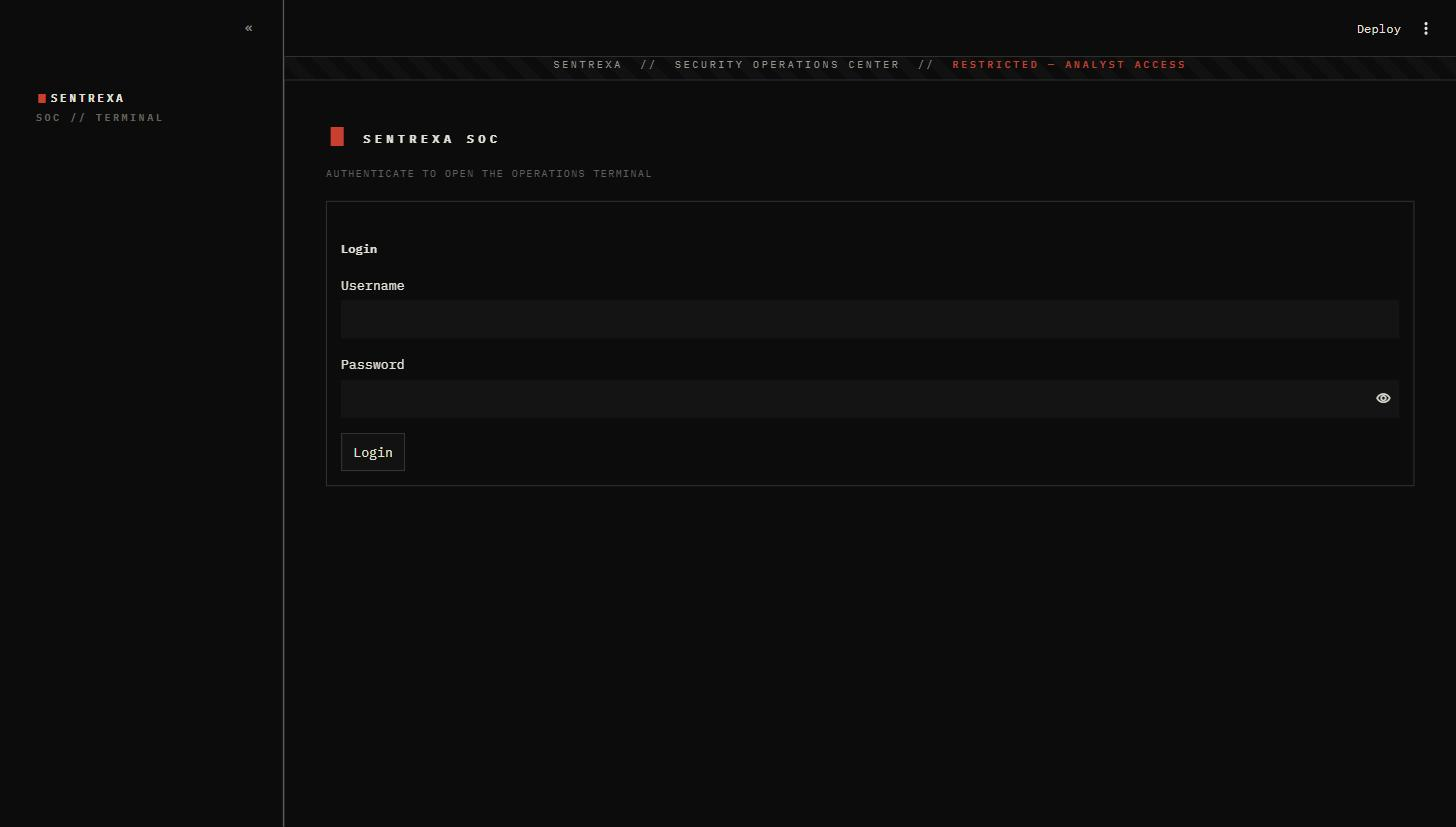
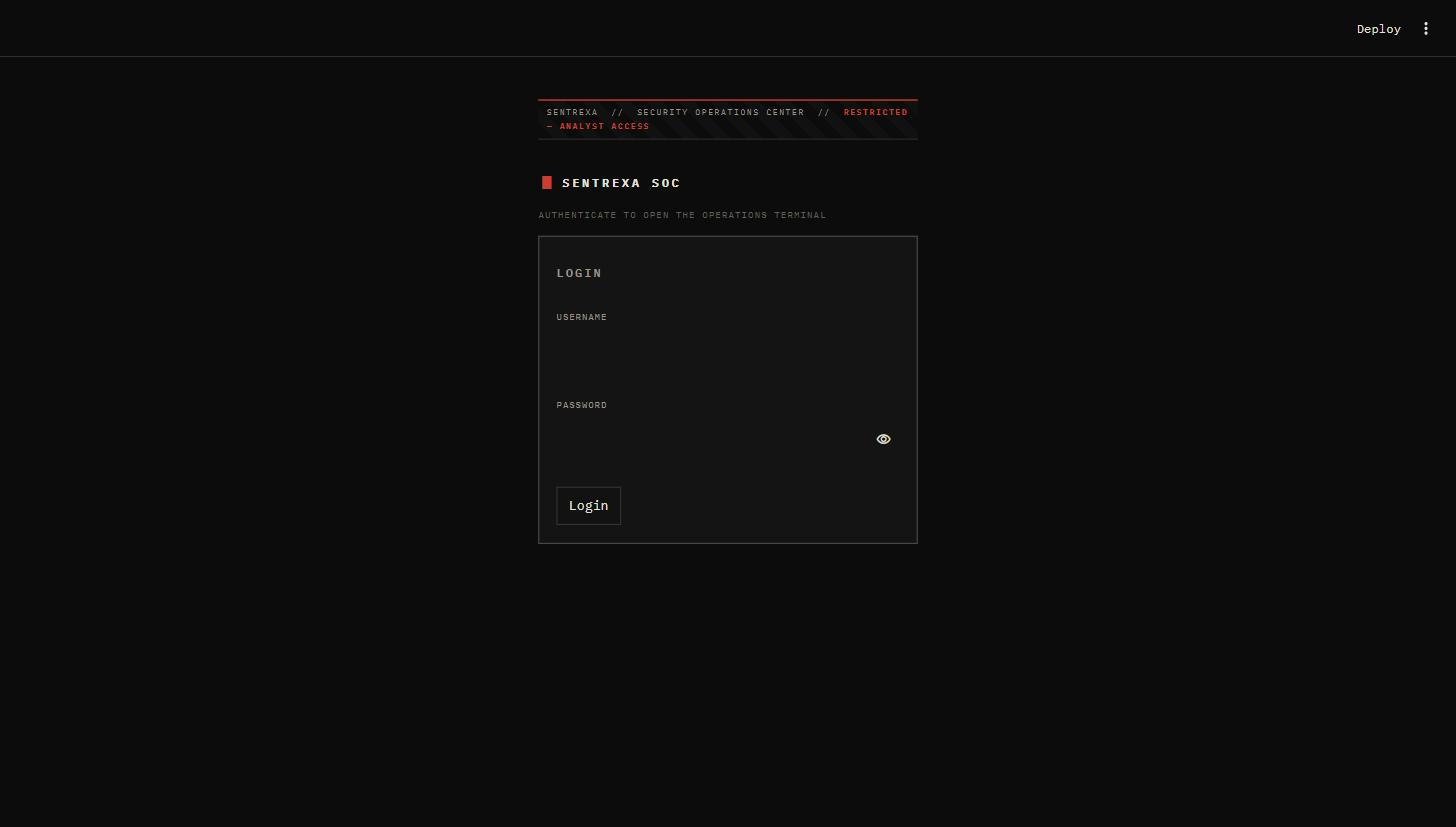
fix(dashboard): no sidebar on the login screen; compact centred login card
Root cause (sidebar): main() opened `with st.sidebar: st.markdown(<wordmark>)`
unconditionally, before require_login() — writing to st.sidebar forces
Streamlit to render it, so it showed pre-login. No CSS was hiding it.

Root cause (card size): there was no CSS rule targeting the login form at all
(`grep stForm` = nothing); authenticator.login(location="main") rendered its
st.form at the full 1500px block-container width.

Fixes (only dashboard/{ui,app,auth}.py):
- require_login() no longer touches st.sidebar. It returns
  (name, authenticator); main() renders every sidebar element — wordmark,
  Sign out, operator, nav — only after it returns, in the same order as before.
  Pre-login: zero sidebar markup is emitted in Python, so Streamlit draws no
  sidebar.
- ui.py: new login-screen block — `.sx-login` wrapper and `[data-testid="stForm"]`
  both capped at max-width 400px, centred, tight padding, squared 1px border,
  mono uppercase labels; the classification framing is scaled down and no longer
  full-bleed; credential errors render inside the card.

Verified logged out: no sidebar, ~400px centred card. Verified logged in with
the rotated password: sidebar and app unchanged, login/logout working.

Claude-Session: https://claude.ai/code/session_01VCnpWtNGdeKKbjow6L6Gtv

diff --git a/dashboard/auth.py b/dashboard/auth.py
@@ -26,8 +26,14 @@ def _authenticator() -> stauth.Authenticate:
     )
 
 
-def require_login() -> str:
-    """Block until logged in. Returns the display name. Calls st.stop() otherwise."""
+def require_login() -> tuple[str, "stauth.Authenticate"]:
+    """Block until logged in.
+
+    Returns ``(display_name, authenticator)`` on success. Calls ``st.stop()``
+    otherwise. **Nothing is rendered into ``st.sidebar`` here** - pre-login the
+    only thing on screen is the compact login card; the caller renders every
+    sidebar element only after this returns.
+    """
     if not _auth_cfg.configured:
         st.error(
             "Dashboard auth is not configured. Set DASHBOARD_AUTH_PASSWORD_HASH "
@@ -37,25 +43,28 @@ def require_login() -> str:
 
     authenticator = _authenticator()
 
-    frame = st.container()          # reserve the slot above the login form
+    frame = st.container()          # reserved slot ABOVE the login form
     authenticator.login(location="main")
     status = st.session_state.get("authentication_status")
 
     if status is True:
-        # default key ("Logout"); a custom key of "logout" collides with the
-        # session_state flag streamlit-authenticator sets internally.
-        authenticator.logout(button_name="Sign out", location="sidebar")
-        return st.session_state.get("name", "analyst")
+        return st.session_state.get("name", "analyst"), authenticator
 
+    error_html = (
+        '<div class="sx-login-error">Credential rejected — '
+        "incorrect username or password.</div>"
+        if status is False
+        else ""
+    )
     with frame:                     # only drawn while unauthenticated
         st.markdown(
+            '<div class="sx-login">'
             '<div class="sx-banner">Sentrexa &nbsp;//&nbsp; Security Operations Center '
             '&nbsp;//&nbsp; <b>RESTRICTED — ANALYST ACCESS</b></div>'
             '<div class="sx-ident"><span class="tick">&#9646;</span>'
-            '<h1>Sentrexa SOC</h1></div>'
-            '<div class="sx-subline">authenticate to open the operations terminal</div>',
+            "<h1>Sentrexa SOC</h1></div>"
+            '<div class="sx-subline">authenticate to open the operations terminal</div>'
+            f"{error_html}</div>",
             unsafe_allow_html=True,
         )
-        if status is False:
-            st.error("Credential rejected — incorrect username or password.")
     st.stop()

diff --git a/dashboard/ui.py b/dashboard/ui.py
@@ -325,6 +325,40 @@ table.sx-table tr[data-sev="high"]     td:first-child {{ box-shadow: inset 3px 0
 .sx-empty .head {{ font-size: .8rem; letter-spacing: .18em; text-transform: uppercase; color: var(--fg-dim); }}
 .sx-empty .sub {{ font-size: .68rem; letter-spacing: .1em; text-transform: uppercase; color: var(--fg-faint); margin-top: .4rem; }}
 .sx-empty .head::before {{ content: "// "; color: var(--stamp); }}
+
+/* ---- login screen : compact centred prompt, no sidebar --------------- */
+.sx-login {{ max-width: 400px; margin: 3.25rem auto .9rem; }}
+.sx-login .sx-banner {{
+    margin: 0 0 .9rem; padding: .35rem .55rem; font-size: .56rem; letter-spacing: .16em;
+    text-align: left; border-top-width: 2px;
+}}
+.sx-login .sx-ident {{ gap: .55rem; margin-bottom: .1rem; }}
+.sx-login .sx-ident h1 {{ font-size: 1.05rem; letter-spacing: .16em; }}
+.sx-login .sx-ident .tick {{ font-size: 1.05rem; }}
+.sx-login .sx-subline {{ margin-bottom: 0; font-size: .6rem; }}
+.sx-login .sx-login-error {{
+    margin-top: .7rem; padding: .4rem .6rem; font-size: .62rem; letter-spacing: .06em;
+    text-transform: uppercase; color: var(--stamp);
+    border: 1px solid var(--stamp); border-left-width: 3px; background: var(--bg-inset);
+}}
+
+/* streamlit-authenticator renders the only st.form in the app */
+[data-testid="stForm"] {{
+    max-width: 400px; margin: 0 auto !important;
+    padding: 1.1rem 1.15rem 1.2rem !important;
+    border: 1px solid var(--rule-strong) !important; background: var(--bg-raised);
+}}
+[data-testid="stForm"] h1, [data-testid="stForm"] h2, [data-testid="stForm"] h3 {{
+    font-size: .68rem !important; letter-spacing: .18em; text-transform: uppercase;
+    color: var(--fg-dim); font-weight: 600; margin: 0 0 .6rem;
+}}
+[data-testid="stForm"] [data-testid="stTextInput"] {{ margin-bottom: .55rem; }}
+[data-testid="stForm"] [data-testid="stWidgetLabel"] p {{
+    font-size: .58rem !important; letter-spacing: .12em; text-transform: uppercase;
+    color: var(--fg-dim);
+}}
+[data-testid="stForm"] [data-testid="stFormSubmitButton"] {{ margin-top: .3rem; }}
+[data-testid="stForm"] [data-testid="stFormSubmitButton"] button {{ width: 100%; }}
 """
 
 

diff --git a/dashboard/app.py b/dashboard/app.py
@@ -343,15 +343,17 @@ VIEWS = {
 # entrypoint
 # --------------------------------------------------------------------------- #
 def main() -> None:
+    # require_login() renders ONLY the centred login card and st.stop()s until
+    # authenticated - it never touches st.sidebar, so pre-login no sidebar
+    # markup exists at all.
+    name, authenticator = require_login()
+
     with st.sidebar:
         st.markdown(
             '<div class="sx-wordmark">SENTREXA<small>SOC // TERMINAL</small></div>',
             unsafe_allow_html=True,
         )
-
-    name = require_login()  # renders login form + st.stop() until authenticated
-
-    with st.sidebar:
+        authenticator.logout(button_name="Sign out", location="sidebar")
         st.markdown(
             f'<div class="sx-operator">operator // <b>{name}</b></div>',
             unsafe_allow_html=True,
